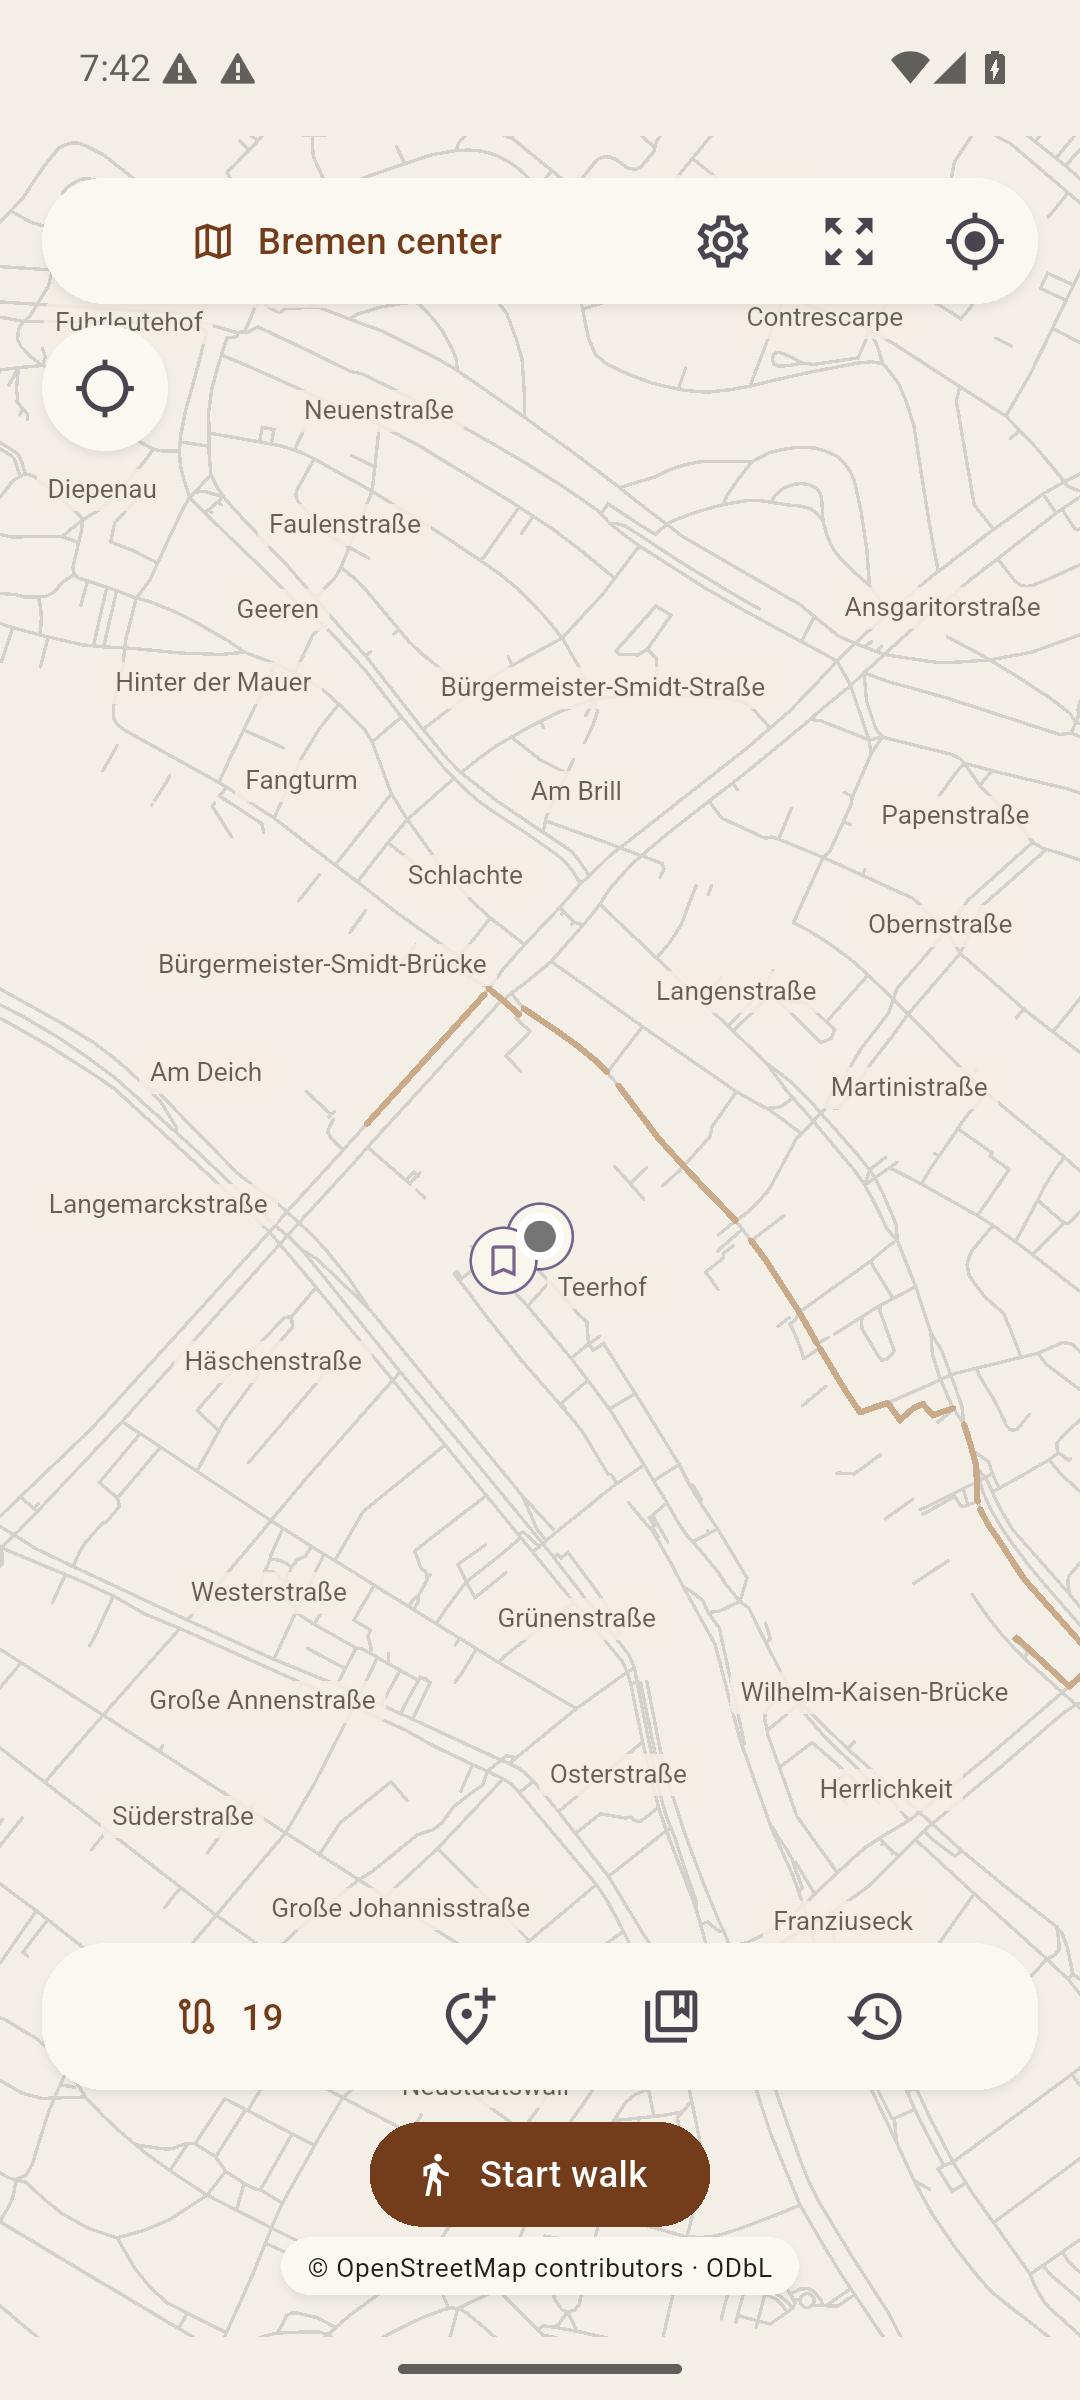
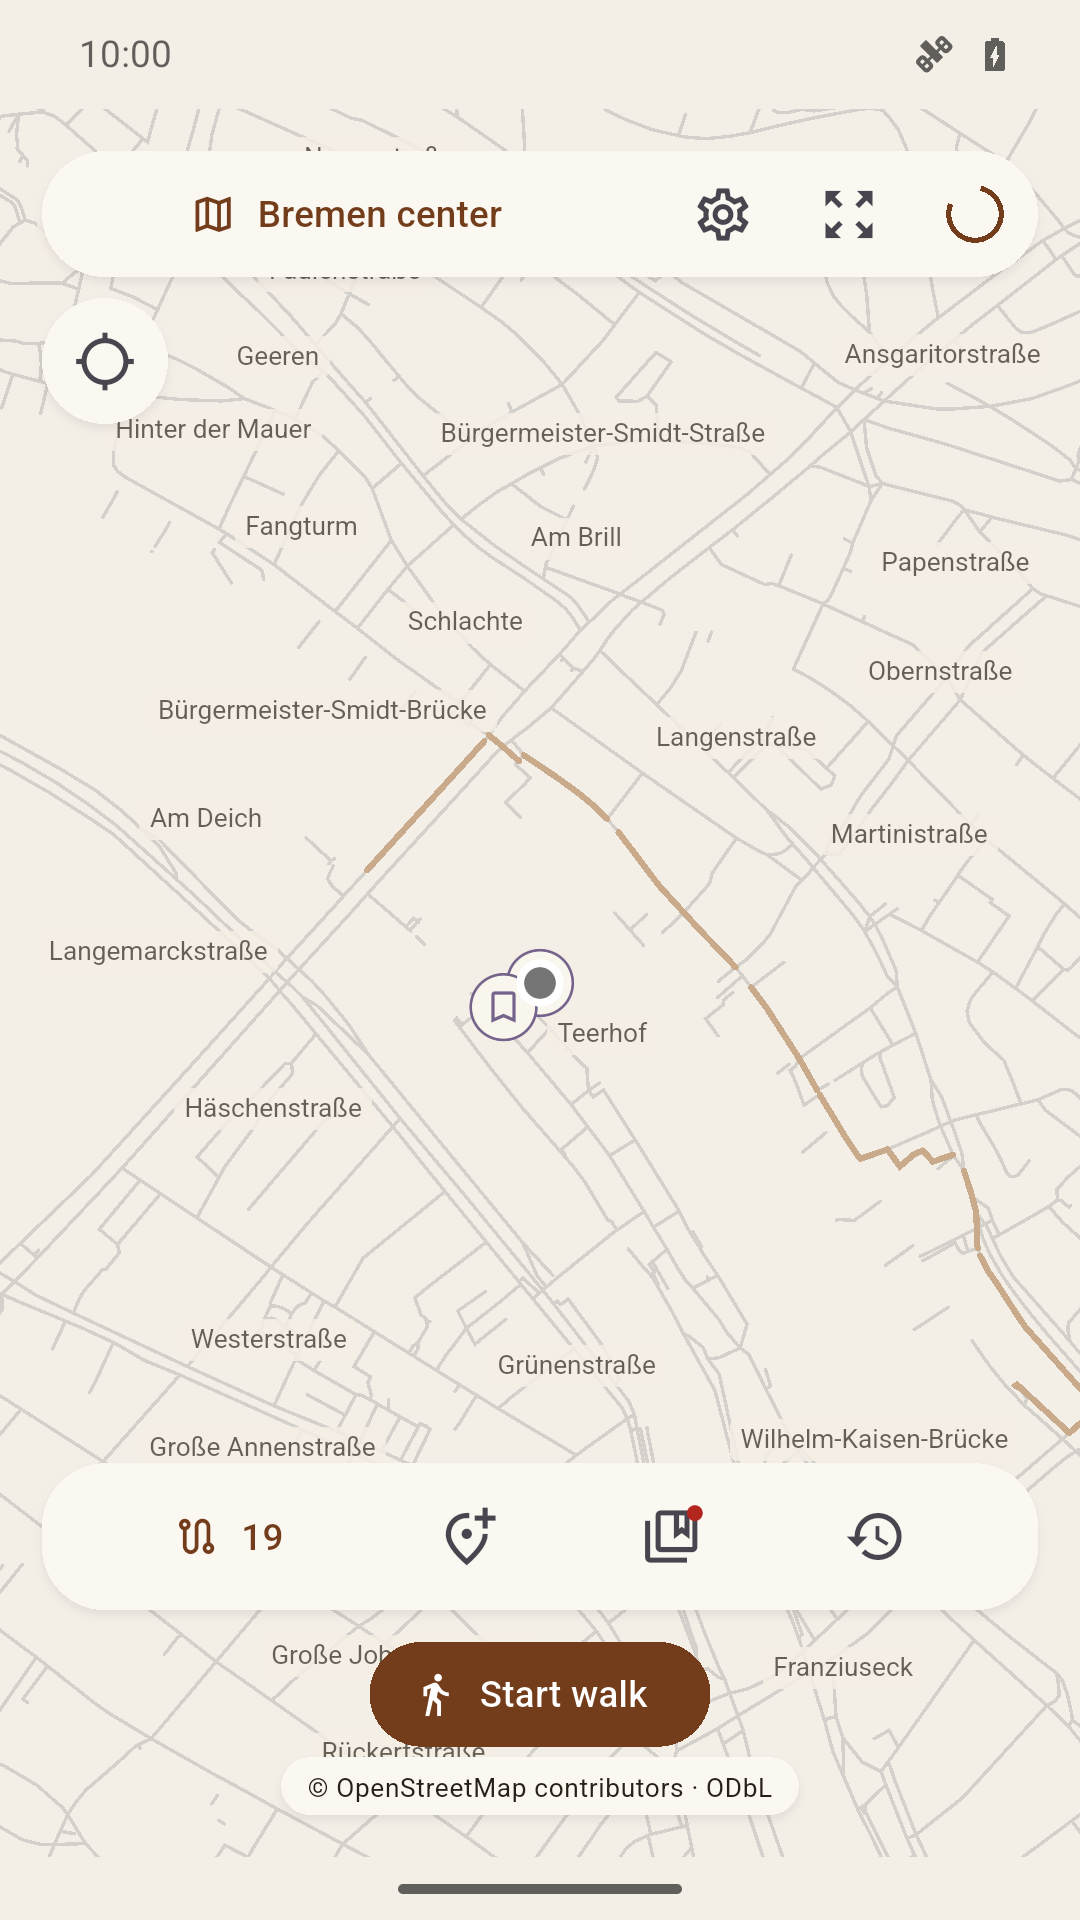
Prepare Play-compatible listing screenshots [skip ci]

diff --git a/tools/capture_store_screenshot.py b/tools/capture_store_screenshot.py
@@ -1,0 +1,29 @@
+#!/usr/bin/env python3
+"""Capture the current Android framebuffer as an opaque, store-sized PNG.
+
+Set the emulator display to 1080x1920 first (adb shell wm size 1080x1920).
+This captures the UI at its actual resolution; it does not crop or resize it.
+Requires Pillow. Use synthetic content only for store listings.
+"""
+import argparse
+from pathlib import Path
+import struct
+import subprocess
+from PIL import Image
+
+parser = argparse.ArgumentParser(description=__doc__)
+parser.add_argument('--adb', default='adb')
+parser.add_argument('--serial', required=True)
+parser.add_argument('output', type=Path)
+args = parser.parse_args()
+raw = subprocess.check_output([args.adb, '-s', args.serial, 'exec-out', 'screencap'])
+width, height, pixel_format = struct.unpack_from('<III', raw)
+if not (320 <= min(width, height) and max(width, height) <= 3840 and max(width, height) <= 2 * min(width, height)):
+    raise SystemExit(f'Unsupported store screenshot dimensions: {width}x{height}')
+header_size = len(raw) - width * height * 4
+if pixel_format not in (1, 2) or header_size not in (12, 16):
+    raise SystemExit('Expected an Android RGBA/RGBX 8888 framebuffer')
+frame = Image.frombytes('RGBA', (width, height), raw[header_size:])
+args.output.parent.mkdir(parents=True, exist_ok=True)
+frame.convert('RGB').save(args.output)
+print(f'Captured {width}x{height} opaque screenshot: {args.output}')

diff --git a/tools/generate_store_artwork.py b/tools/generate_store_artwork.py
@@ -15,7 +15,7 @@ def mark(draw, left, top, scale):
         draw.ellipse((x-width/2, y-width/2, x+width/2, y+width/2), fill=INK)
     draw.ellipse((left+48*scale, top+23*scale, left+60*scale, top+35*scale), fill=WARM)
 
-icon = Image.new('RGB', (1024, 1024), BG)
+icon = Image.new('RGBA', (1024, 1024), BG)
 mark(ImageDraw.Draw(icon), 0, 0, 1024 / 108)
 icon.resize((512, 512), Image.Resampling.LANCZOS).save(OUT / 'icon.png')
 feature = Image.new('RGB', (2048, 1000), BG)

diff --git a/docs/ANDROID_UPDATES.md b/docs/ANDROID_UPDATES.md
@@ -177,3 +177,13 @@ GitHub CI for `232a399` passed, including the test APK release (build 1037).
 The store candidate built and passed APK/AAB verification on the runner; only
 Actions artifact upload failed because the account storage quota was full.
 Manual candidates now use draft GitHub release assets to avoid that limitation.
+
+
+Store artwork uses a 512 × 512 RGBA icon, a 1024 × 500 RGB feature graphic,
+and two 1080 × 1920 RGB phone screenshots. Screenshots were recaptured directly
+at that emulator display size, rather than cropping the app UI. The helper
+`tools/capture_store_screenshot.py --serial SERIAL OUTPUT.png` reads the Android
+framebuffer and exports an opaque PNG; set the emulator display with
+`adb -s SERIAL shell wm size 1080x1920` and restore it with `wm size reset`.
+`tools/generate_store_artwork.py` renders the original icon/feature artwork.
+Both helpers require Pillow. See [Play preview asset requirements](https://support.google.com/googleplay/android-developer/answer/9866151).
